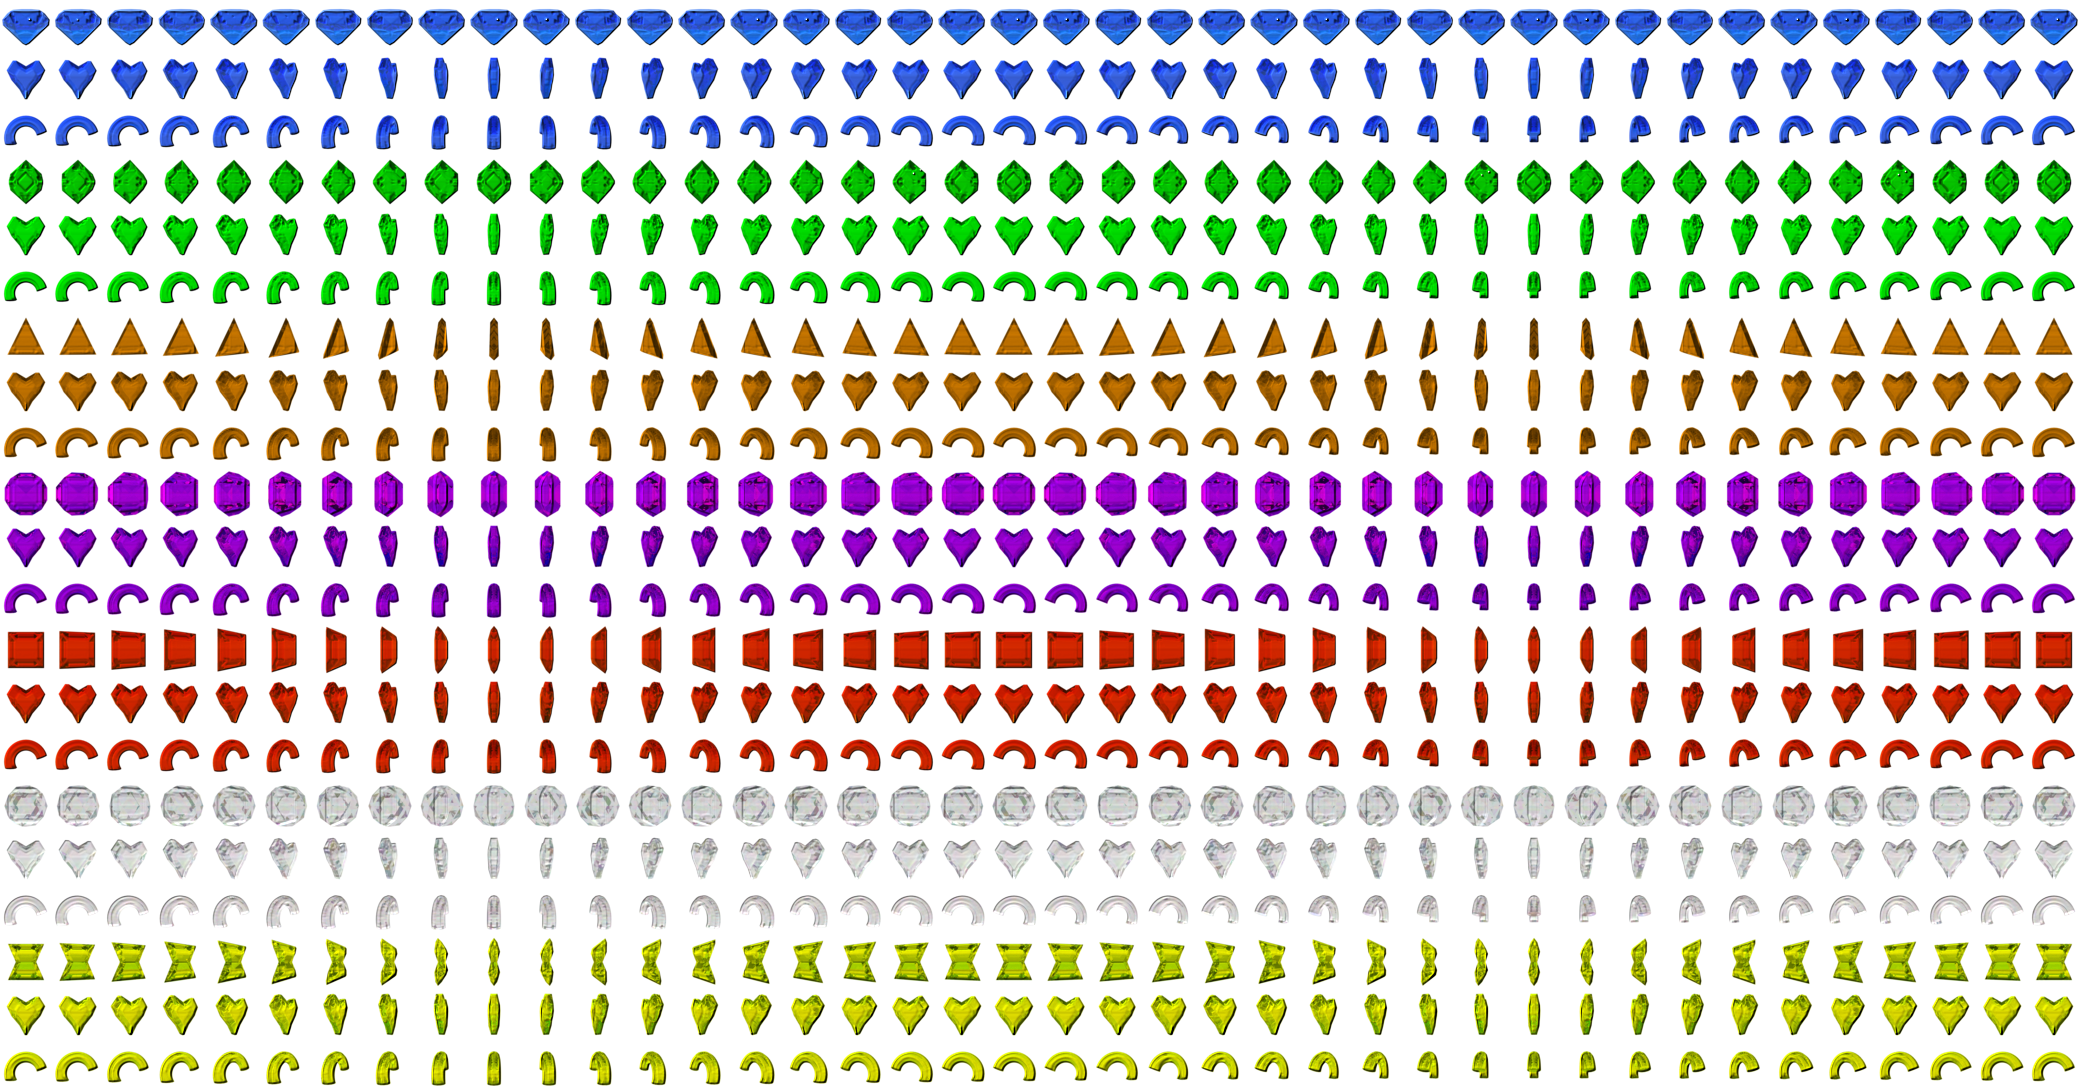
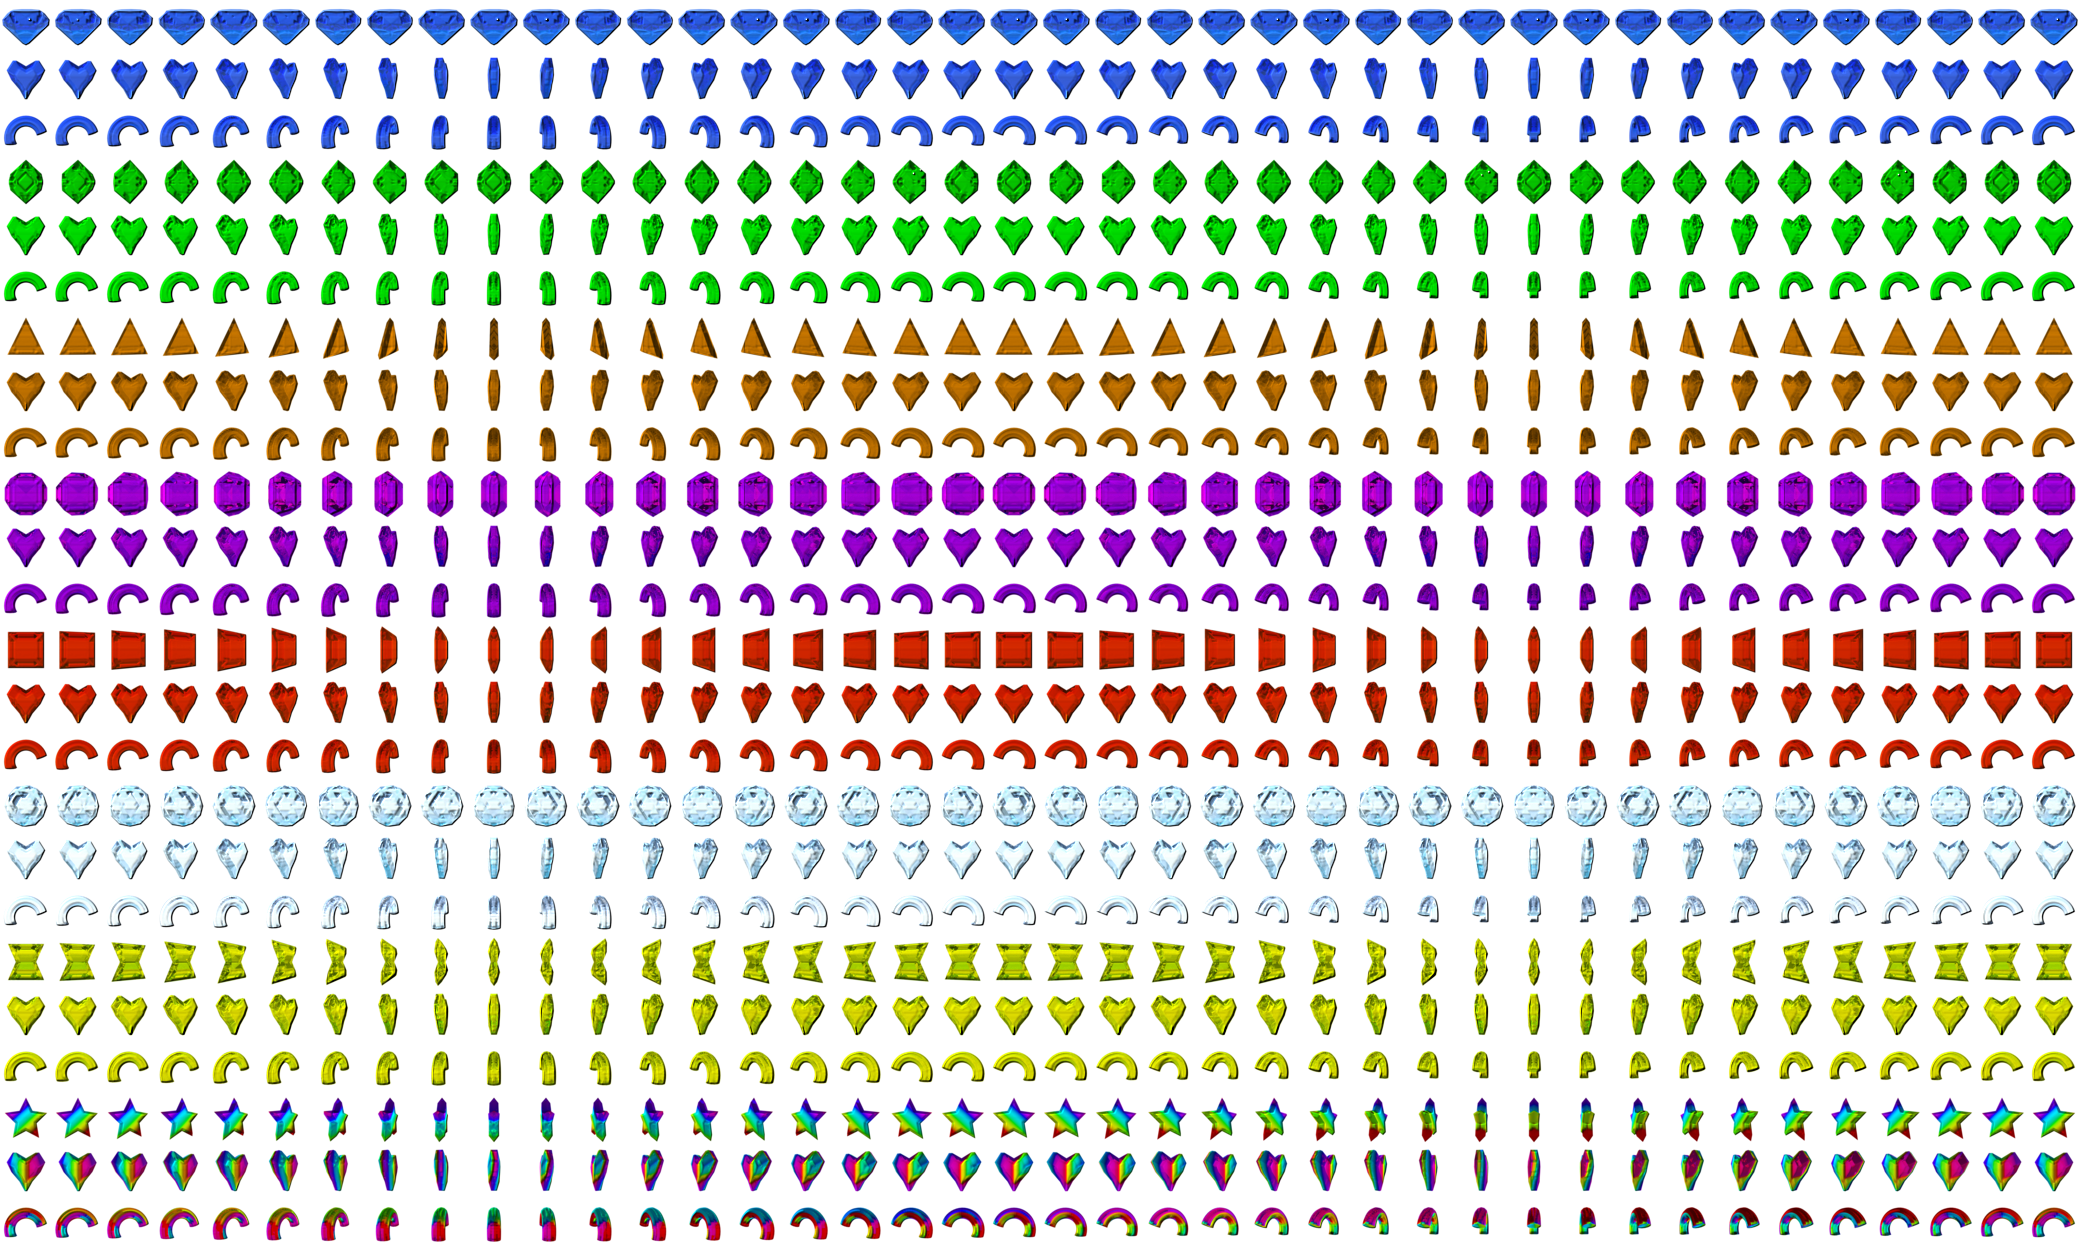
* adding Star, Bomb, Rainbow as any color gem

diff --git a/mainJewels.cpp b/mainJewels.cpp
@@ -74,6 +74,7 @@
  */
 
 #include <stack>          // std::stack
+#include <map>
 
 #define BOARD_X 8
 #define BOARD_Y 8
@@ -87,17 +88,18 @@
 #define NUMBERS_X 33
 #define NUMBERS_Y 52
  
-class JuwelsGame : public olc::PixelGameEngine
+class JewelsGame : public olc::PixelGameEngine
 {
 public:
-  JuwelsGame()
+  JewelsGame()
   {
     sAppName = "Match 3 Jewels";
   }
   
   struct sGem
   {
-    uint8_t color; // 0 NONE; 1 BLUE; 2 GREEN; 3 ORANGE; 4 PURPLE; 5 RED; WHITE; YELLOW
+    //uint8_t color; // 0 NONE; 1 BLUE; 2 GREEN; 3 ORANGE; 4 PURPLE; 5 RED; 6 WHITE; 7 YELLOW
+    uint8_t colorbitmask; // 0 NONE; 1 BLUE; 2 GREEN; 4 ORANGE; 8 PURPLE; 16 RED; 32 WHITE; 64 YELLOW; 127 ANYCOLOR
     uint8_t animation_mode; // 0 NONE; 1 ROTATING; 2 TILTING
     bool bExist;
     bool bRemove;
@@ -124,6 +126,9 @@ public:
   
   // define sprite in your PGE program for drawing gems/bombs/rainbow
   std::vector<olc::AnimatedSprite> m_GemSprite;
+  
+  // lazy map to correlate colorbitmask to index
+  std::map<uint8_t, uint8_t> colormap;
   
   // define sprite in your PGE program for explosion
   std::vector<olc::AnimatedSprite> m_FragmentSprite;
@@ -194,7 +199,17 @@ public:
     
     gfxNumbers.Load("./assets/Numbers.png");
     
-    for (int j = 0; j < 7; j++)
+    // colorbitmask -> idx
+    colormap[1]=0; // 1 BLUE; 2 GREEN; 4 ORANGE; 8 PURPLE; 16 RED; 32 WHITE; 64 YELLOW; 127 ANYCOLOR
+    colormap[2]=1; 
+    colormap[4]=2;
+    colormap[8]=3;
+    colormap[16]=4;
+    colormap[32]=5;
+    colormap[64]=6;
+    colormap[127]=7;
+    
+    for (int j = 0; j < 8; j++)
     {
       olc::AnimatedSprite sprite;
       sprite.mode = olc::AnimatedSprite::SPRITE_MODE::SINGLE; // set sprite to use a single spritesheet
@@ -239,7 +254,7 @@ public:
       m_GemSprite.push_back(sprite);
     }
     
-    for (int j = 0; j < 7; j++)
+    for (int j = 0; j < 8; j++)
     {
       olc::AnimatedSprite sprite;
       sprite.mode = olc::AnimatedSprite::SPRITE_MODE::SINGLE; // set sprite to use a single spritesheet
@@ -269,9 +284,10 @@ public:
     {
       for (int y = 0; y < BOARD_Y; y++)
       {
-        m_GemsPlayfield[x][y].color = rand() % 7 + 1;
+        //m_GemsPlayfield[x][y].color = rand() % 7 + 1;
+        m_GemsPlayfield[x][y].colorbitmask = 1 << (rand() % 7);
         m_GemsPlayfield[x][y].animation_mode = 0;
-        m_GemsPlayfield[x][y].sprite = m_GemSprite[m_GemsPlayfield[x][y].color-1];
+        m_GemsPlayfield[x][y].sprite = m_GemSprite[colormap.at(m_GemsPlayfield[x][y].colorbitmask)];
         m_GemsPlayfield[x][y].bExist = false;
         m_GemsPlayfield[x][y].bRemove = false;
         m_GemsPlayfield[x][y].type = sGem::GEMTYPE::GEM;
@@ -301,7 +317,7 @@ public:
         for (int i = 0; i < size; i++)
         {
           float a = random_float(0, 2.0f * 3.14159f);
-          sFragment f = { (float)x, (float)y, cosf(a) * random_float(100.0f, 300.0f), sinf(a) * random_float(100.0f, 300.0f), color, m_FragmentSprite[color-1] };
+          sFragment f = { (float)x, (float)y, cosf(a) * random_float(100.0f, 300.0f), sinf(a) * random_float(100.0f, 300.0f), color, m_FragmentSprite[color] };
           fragments.push_back(f);
         }
         
@@ -453,9 +469,68 @@ public:
                   
                   bool bPlaceRainbow = false;
                   
+                  
+                  
                   // Check Horizontally
                   int nChain = 1;
-                  while (((nChain + x) < BOARD_X) && (m_GemsPlayfield[x][y].color == m_GemsPlayfield[x + nChain][y].color) ) nChain++;
+                  
+                  uint8_t bAnyColor = (m_GemsPlayfield[x][y].colorbitmask != 127) ? m_GemsPlayfield[x][y].colorbitmask : 128;
+                  while (((nChain + x) < BOARD_X) && ((bAnyColor & m_GemsPlayfield[x + nChain][y].colorbitmask) == 0) && ((m_GemsPlayfield[x+ nChain][y].colorbitmask != 127)) ) { bAnyColor |= m_GemsPlayfield[x + nChain][y].colorbitmask; nChain++; }
+                  
+                  if(nChain == 7)
+                  {  
+                    
+                    while (nChain > 0)
+                    {
+                      m_GemsPlayfield[x + nChain - 1][y].bRemove = true;
+                      
+                      score_removed_tiles++;
+                      
+                      if (m_GemsPlayfield[x + nChain - 1][y].type == sGem::GEMTYPE::BOMB)
+                      {                       
+                        m_GemsPlayfield[x + nChain - 1][y].bRemove = true;
+                        
+                        bBombToRemove = true;
+                      }
+                      
+                      if (m_GemsPlayfield[x + nChain - 1][y].type == sGem::GEMTYPE::RAINBOW)
+                      {
+                        
+                        m_GemsPlayfield[x + nChain - 1][y].bRemove = true;
+                        
+                        bRainbowToRemove = true;
+                      }
+                      
+                      
+                      nChain--;
+                      bSwapFail = false;
+                      bGemsToRemove = true;
+                      
+                    }
+                    
+                    m_GemsPlayfield[x][y].colorbitmask = 127;
+                    m_GemsPlayfield[x][y].bRemove = false;
+                    m_GemsPlayfield[x][y].type = sGem::GEMTYPE::GEM;
+                    m_GemsPlayfield[x][y].sprite.SetState("gem idle");
+                    m_GemsPlayfield[x][y].sprite = m_GemSprite[colormap.at(m_GemsPlayfield[x][y].colorbitmask)];
+                  }
+                  
+                  nChain = 1;
+                  //while (((nChain + x) < BOARD_X) && (m_GemsPlayfield[x][y].color == m_GemsPlayfield[x + nChain][y].color) ) nChain++;
+                  if(((m_GemsPlayfield[x][y].colorbitmask != 127)))
+                  { 
+                    //first gem is no ANYCOLOR
+                   while (((nChain + x) < BOARD_X) && (m_GemsPlayfield[x][y].colorbitmask & m_GemsPlayfield[x + nChain][y].colorbitmask)  ) nChain++;
+                  }
+                  else
+                  {
+                    if(x + 1 < BOARD_X)
+                    {
+                      uint8_t etmpColor =  m_GemsPlayfield[x + 1][y].colorbitmask;
+                      while (((nChain + x) < BOARD_X) && (etmpColor & m_GemsPlayfield[x + nChain][y].colorbitmask)  ) nChain++;
+                    }
+                  }
+                  
                   if (nChain >= 3)
                   {
                     if (nChain == 4) bPlaceBomb = true;
@@ -493,8 +568,69 @@ public:
                   
                   // Check Vertically
                   nChain = 1;
+                  bAnyColor = (m_GemsPlayfield[x][y].colorbitmask != 127) ? m_GemsPlayfield[x][y].colorbitmask : 128;
+                  while (((nChain + y) < BOARD_Y) && ((bAnyColor & m_GemsPlayfield[x][y + nChain].colorbitmask) == 0) && (m_GemsPlayfield[x][y + nChain].colorbitmask != 127)  ) { bAnyColor |= m_GemsPlayfield[x][y + nChain].colorbitmask; nChain++; }
+                  
+                  if(nChain == 7)
+                  {  
+                    
+                    while (nChain > 0)
+                    {
+                      m_GemsPlayfield[x][y+ nChain - 1].bRemove = true;
+                      
+                      score_removed_tiles++;
+                      
+                      if (m_GemsPlayfield[x][y+ nChain - 1].type == sGem::GEMTYPE::BOMB)
+                      {                       
+                        m_GemsPlayfield[x][y+ nChain - 1].bRemove = true;
+                        
+                        bBombToRemove = true;
+                      }
+                      
+                      if (m_GemsPlayfield[x][y+ nChain - 1].type == sGem::GEMTYPE::RAINBOW)
+                      {
+                        
+                        m_GemsPlayfield[x][y+ nChain - 1].bRemove = true;
+                        
+                        bRainbowToRemove = true;
+                      }
+                      
+                      
+                      nChain--;
+                      bSwapFail = false;
+                      bGemsToRemove = true;
+                      
+                    }
+                    
+                    m_GemsPlayfield[x][y].colorbitmask = 127;
+                    m_GemsPlayfield[x][y].bRemove = false;
+                    m_GemsPlayfield[x][y].type = sGem::GEMTYPE::GEM;
+                    m_GemsPlayfield[x][y].sprite.SetState("gem idle");
+                    m_GemsPlayfield[x][y].sprite = m_GemSprite[colormap.at(m_GemsPlayfield[x][y].colorbitmask)];
+                  }
+                  
+                  
+                  
+                  nChain = 1;
                   //while ( ((nChain + y) < 8) && (m_GemsPlayfield[x][y].color == m_GemsPlayfield[x][y + nChain].color) && (!m_GemsPlayfield[x][y+ nChain].bRemove) ) nChain++;
-                  while ( ((nChain + y) < BOARD_Y) && (m_GemsPlayfield[x][y].color == m_GemsPlayfield[x][y + nChain].color)  ) nChain++;
+                  //while ( ((nChain + y) < BOARD_Y) && (m_GemsPlayfield[x][y].color == m_GemsPlayfield[x][y + nChain].color)  ) nChain++;
+                  
+                  //while ( ((nChain + y) < BOARD_Y) && ((m_GemsPlayfield[x][y].colorbitmask & m_GemsPlayfield[x][y + nChain].colorbitmask)) && ((m_GemsPlayfield[x][y].colorbitmask != 127))  ) nChain++;
+                  
+                  if(((m_GemsPlayfield[x][y].colorbitmask != 127)))
+                  { 
+                    //first gem is no ANYCOLOR
+                   while (((nChain + y) < BOARD_Y) && (m_GemsPlayfield[x][y].colorbitmask & m_GemsPlayfield[x][y + nChain].colorbitmask)  ) nChain++;
+                  }
+                  else
+                  {
+                    if(y + 1 < BOARD_Y)
+                    {
+                      uint8_t etmpColor =  m_GemsPlayfield[x][y + 1].colorbitmask;
+                      while (((nChain + y) < BOARD_Y) && (etmpColor & m_GemsPlayfield[x][y + nChain].colorbitmask)  ) nChain++;
+                    }
+                  }
+                  
                   
                   if (nChain >= 3)
                   {
@@ -593,7 +729,7 @@ public:
                     {
                       for (int l = 0; l < BOARD_Y; l++)
                       {
-                        if(m_GemsPlayfield[x][y].color == m_GemsPlayfield[k][l].color)
+                        if(m_GemsPlayfield[x][y].colorbitmask & m_GemsPlayfield[k][l].colorbitmask)
                         { 
                           m_GemsPlayfield[k][l].bRemove = true;
                           score_removed_tiles++;
@@ -652,7 +788,7 @@ public:
                           {
                             for (int l = 0; l < BOARD_Y; l++)
                             {
-                              if(m_GemsPlayfield[m][n].color == m_GemsPlayfield[k][l].color)
+                              if(m_GemsPlayfield[m][n].colorbitmask & m_GemsPlayfield[k][l].colorbitmask)
                               {
                                 m_GemsPlayfield[k][l].bRemove = true;
                                 score_removed_tiles++;
@@ -705,7 +841,7 @@ public:
                         m_GemsPlayfield[x][y].bExist = false;
                         m_GemsPlayfield[x][y].type == sGem::GEMTYPE::GEM;
                         float offset_X = 0.5f*(SCREENSIZE_X-BOARD_X*TILESIZE_X);
-                        boom(offset_X + x * TILESIZE_X + TILESIZE_X/2, y * TILESIZE_Y + TILESIZE_Y/2, 15, m_GemsPlayfield[x][y].color);
+                        boom(offset_X + x * TILESIZE_X + TILESIZE_X/2, y * TILESIZE_Y + TILESIZE_Y/2, 15, colormap.at(m_GemsPlayfield[x][y].colorbitmask));
                         nTotalGems--;
                       }
                     }
@@ -740,9 +876,10 @@ public:
                   if (!m_GemsPlayfield[x][0].bExist)
                   {
                     
-                    m_GemsPlayfield[x][0].color = rand() % 7 + 1;
+                    //m_GemsPlayfield[x][0].color = rand() % 7 + 1;
+                    m_GemsPlayfield[x][0].colorbitmask = 1 << (rand() % 7);
                     m_GemsPlayfield[x][0].animation_mode = 1;
-                    m_GemsPlayfield[x][0].sprite = m_GemSprite[m_GemsPlayfield[x][0].color-1];
+                    m_GemsPlayfield[x][0].sprite = m_GemSprite[colormap.at(m_GemsPlayfield[x][0].colorbitmask)];
                     m_GemsPlayfield[x][0].bExist = true;
                     m_GemsPlayfield[x][0].bRemove = false;
                     m_GemsPlayfield[x][0].type = rand() % 64 + 1 > 1 ? sGem::GEMTYPE::GEM : rand() % 64 + 1 > 1 ? sGem::GEMTYPE::BOMB : sGem::GEMTYPE::RAINBOW;
@@ -854,7 +991,7 @@ public:
 
 int main()
 {
-  JuwelsGame demo;
+  JewelsGame demo;
   if (demo.Construct(SCREENSIZE_X, SCREENSIZE_Y, 1, 1))
     demo.Start();
   
